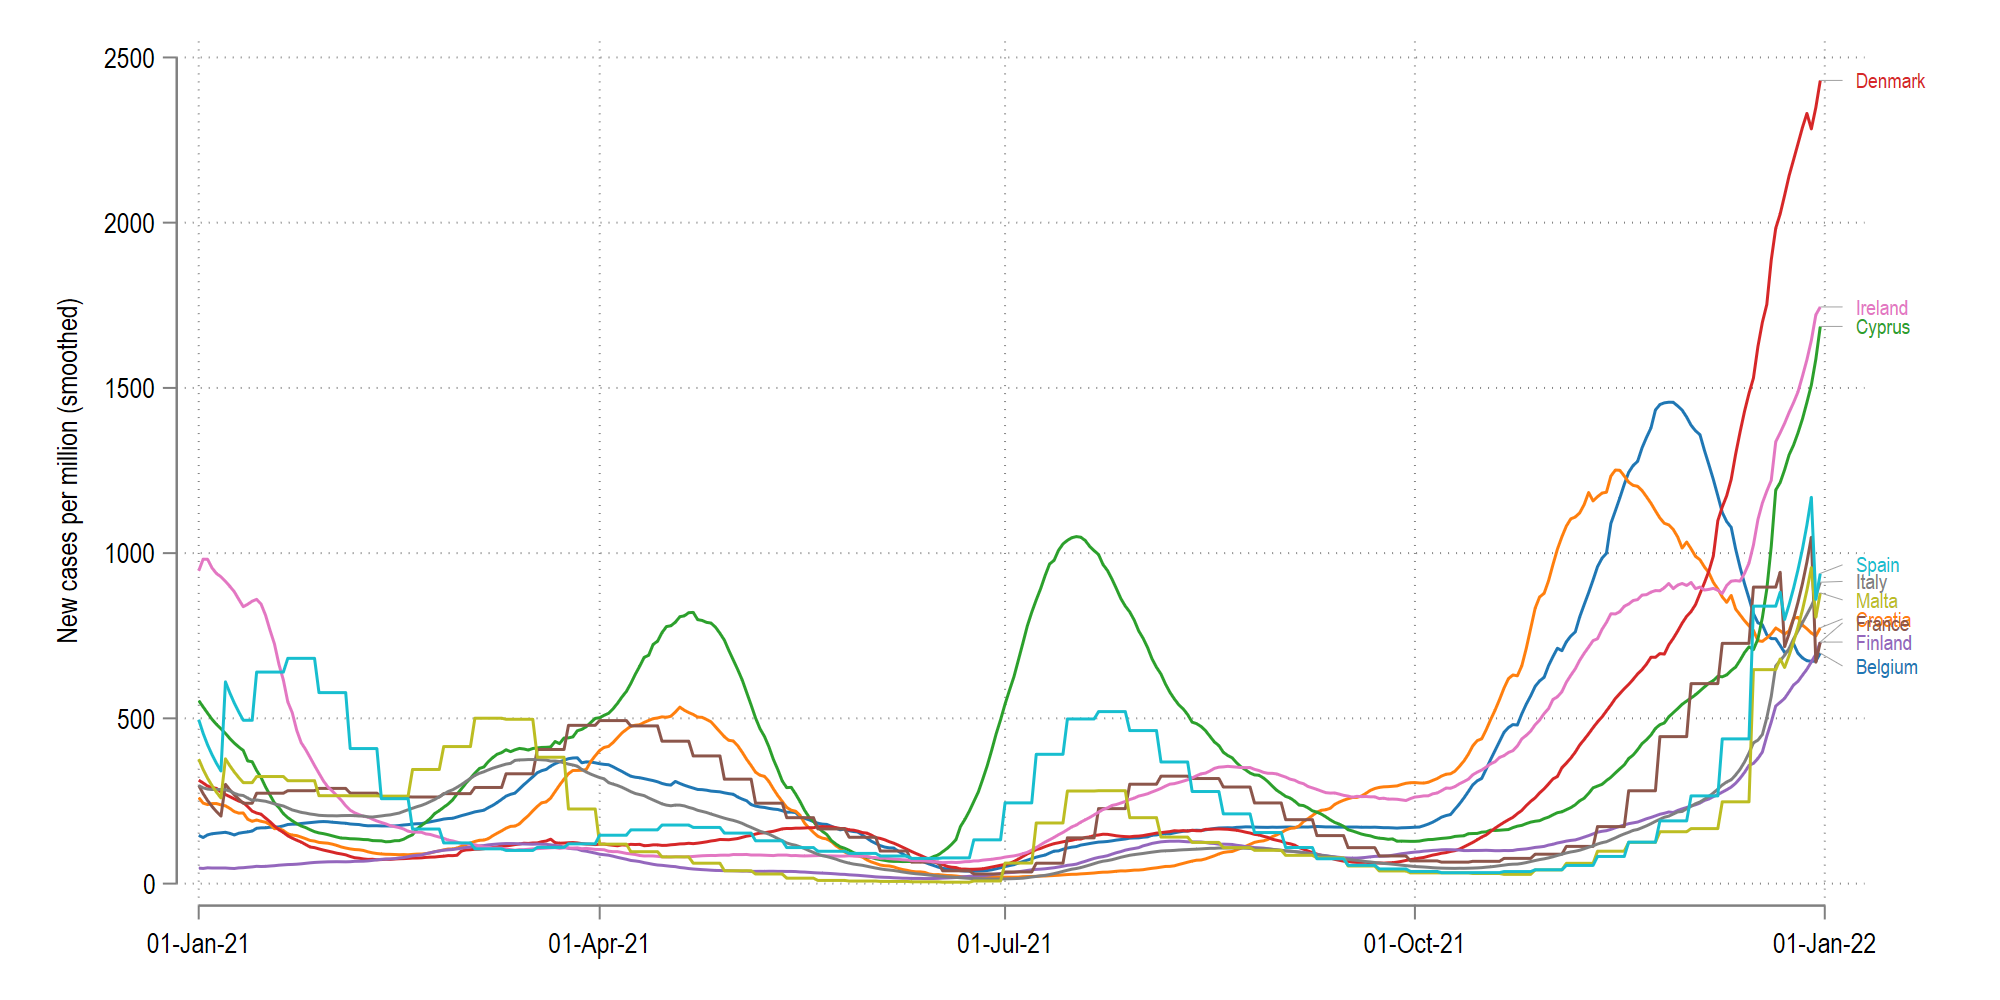
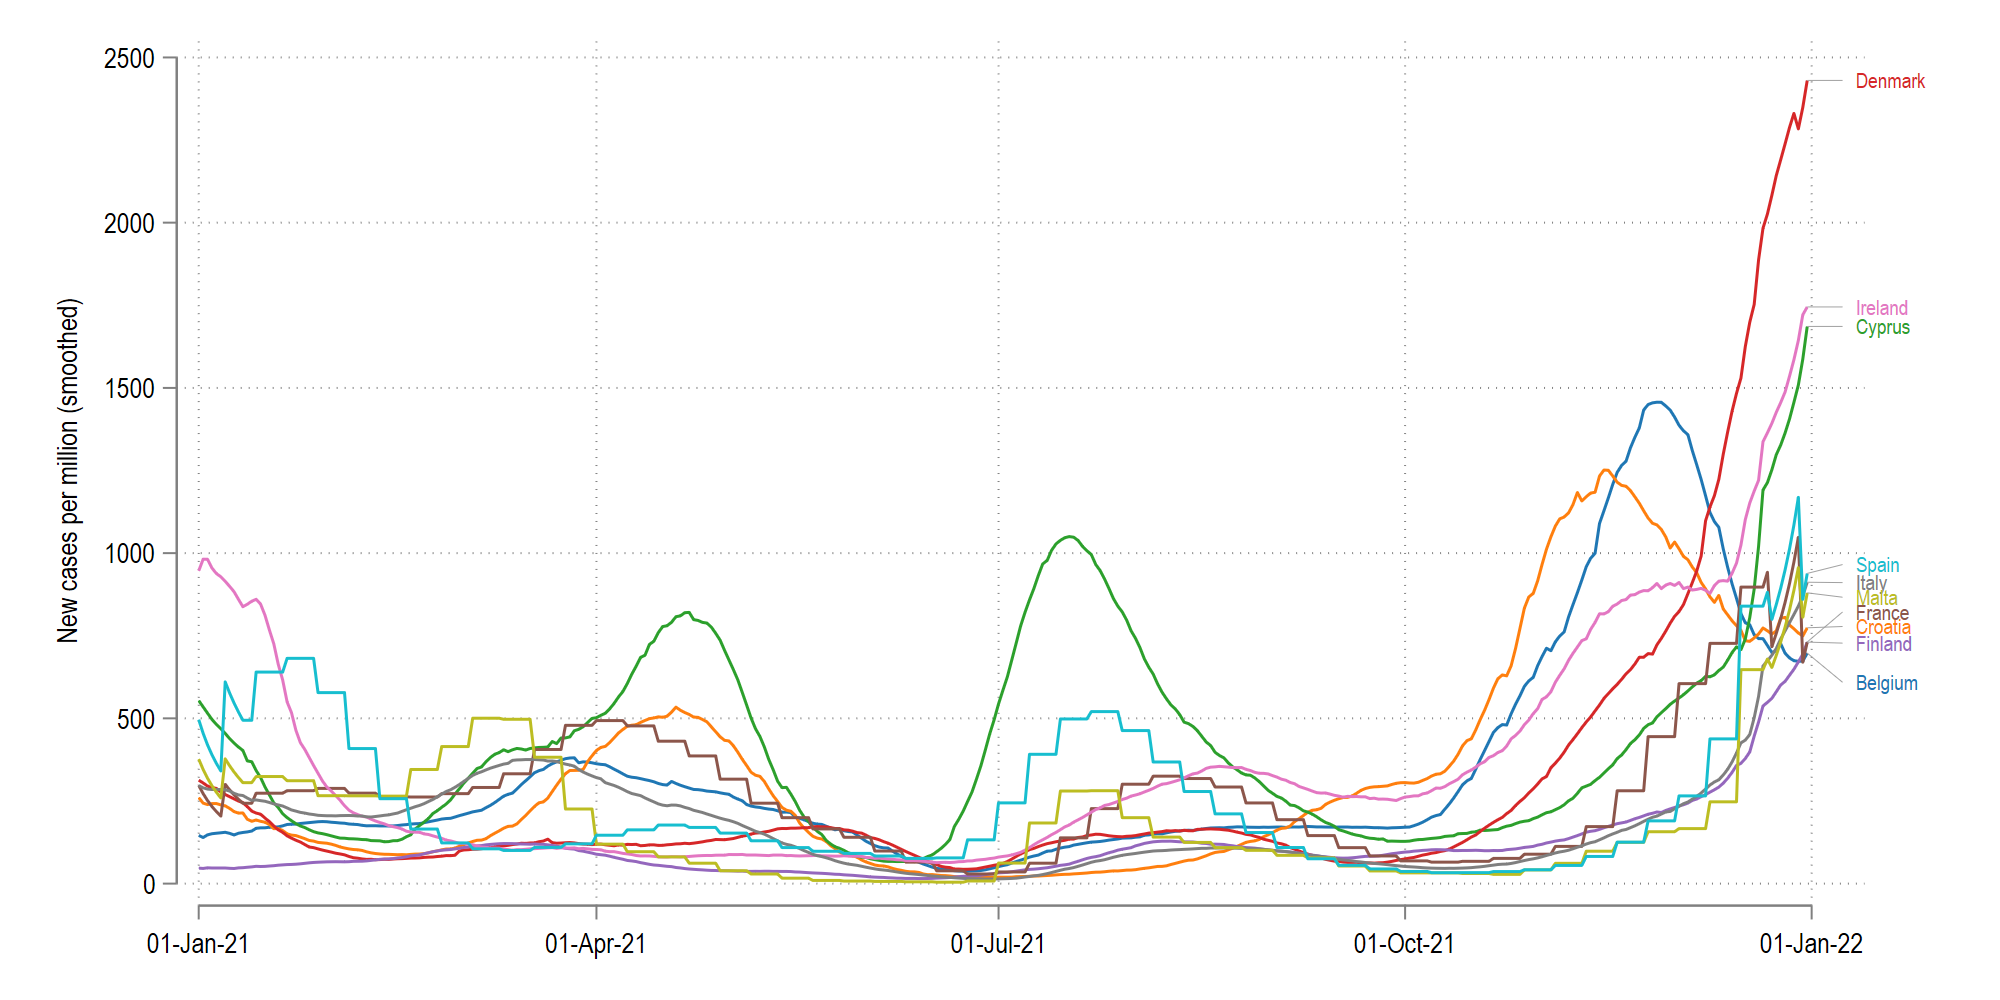
v1.7 updates

diff --git a/README.md b/README.md
@@ -121,7 +121,7 @@ The program repels overlapping text labels in scatter plots and other visualizat
 
 Syntax:
 ```stata
-labrepel y x, label(varname) [ <options? ]
+labrepel y x, label(varname) [ <options> ]
 ```
 
 See `help labrepel` after installation.
@@ -200,13 +200,13 @@ And we get this graph:
 Now try the label repel algorithm on just the y-axis:
 
 ```stata
-labrepel ncsmooth date if date==last, label(country) direction(y) 	
+labrepel ncsmooth date if date==last, push(6) pull(0.1) mlabsize(1.8) seed(2026) label(country) direction(y) 	
 ```
 
-We also want to displace the labels away from the x-axis a bit and we can do this manually:
+We fix the seed since each run would give a different layout and it be good to already store this before running. Might require a couple of iterations to get it right. We also displace the labels away from the x-axis a bit and we can do this manually:
 
 ```stata
-replace _xcoord = _xcoord + 5
+replace _xcoord = _xcoord + 8
 ```
 
 Plot again:
